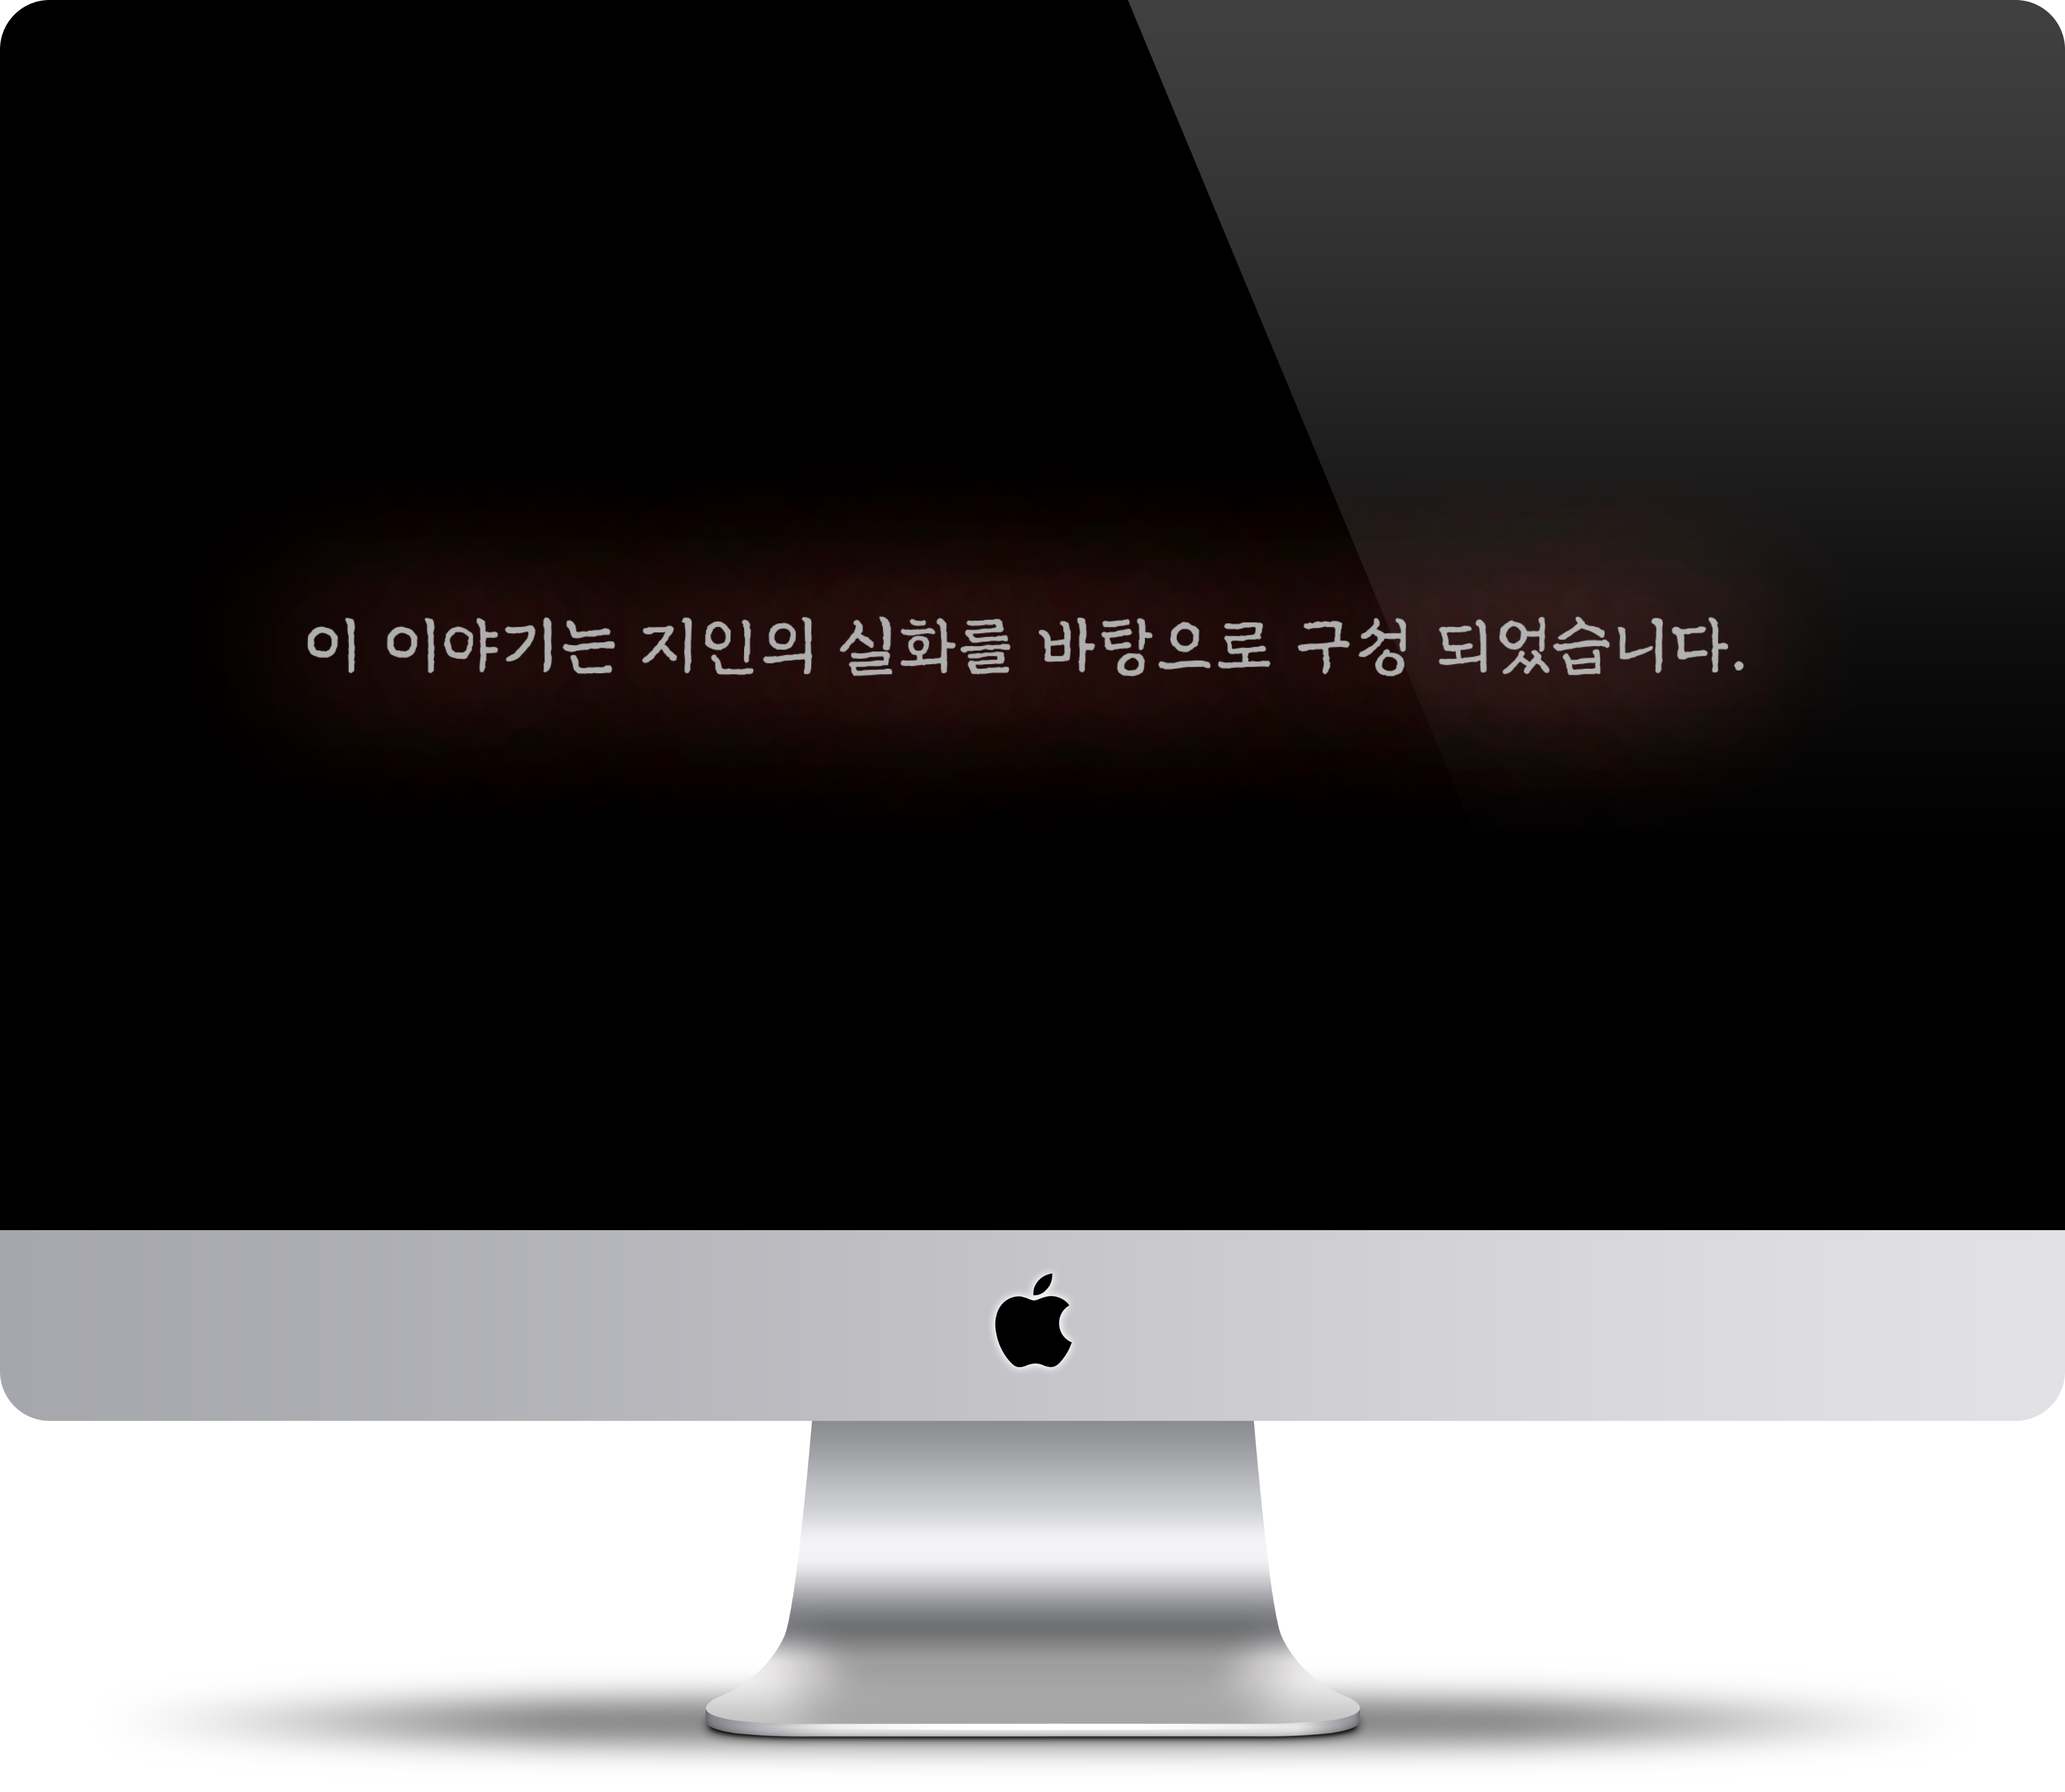
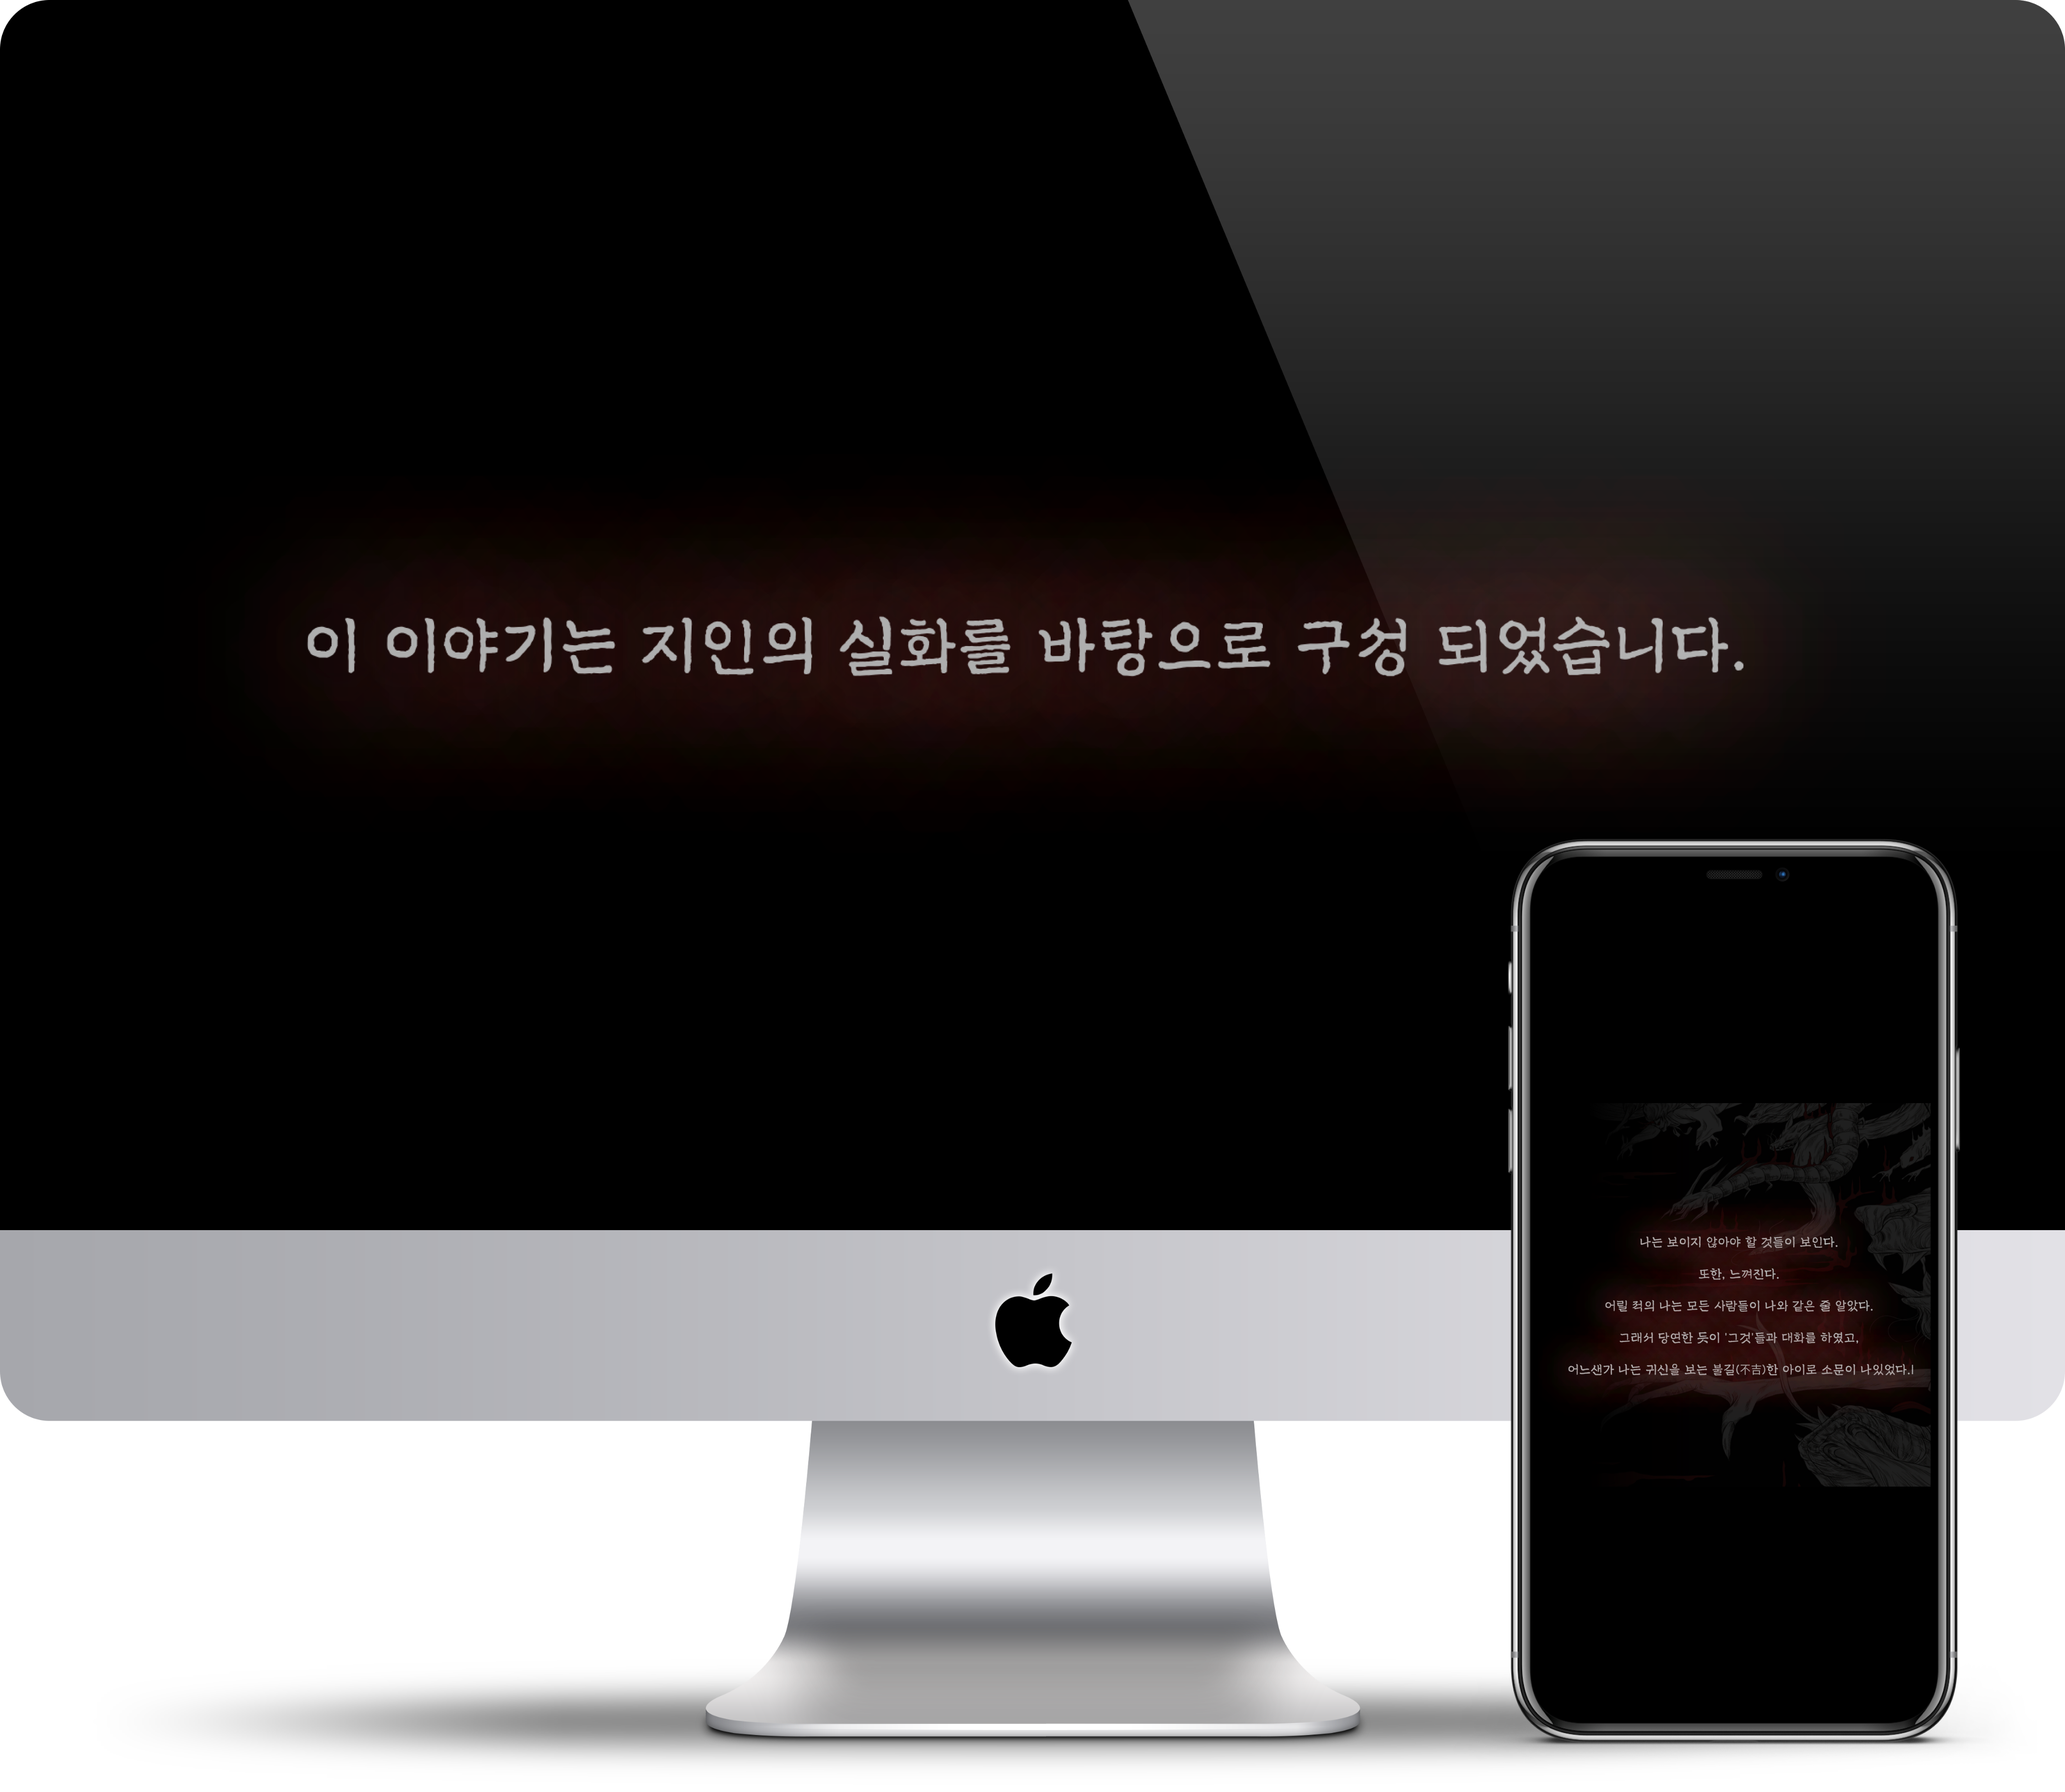
.

Changed region(s): [[0.7188, 0.4682, 0.9688, 0.9989]]

diff --git a/src/component/pages/ThirdSection.tsx b/src/component/pages/ThirdSection.tsx
@@ -1,7 +1,8 @@
 import React, { useState, useEffect } from "react";
 import styled, { css } from "styled-components";
 import { motion, AnimatePresence } from "framer-motion";
-import ImacIMG from "../assets/images/pngwing.com.png";
+// import ImacIMG from "../assets/images/pngwing.com.png";
+import iphoneIMG from "../assets/images/iphone.png";
 import NovelIMGFirst from "../assets/images/novel-img-1.png";
 import RockIMGFirst from "../assets/images/rock.png";
 import "../../App.scss";
@@ -129,12 +130,9 @@ const ThirdBoxSub = styled(motion.section)`
       display: flex;
       justify-content: center;
       align-items: center;
-      transition: border 0.2s ease-in-out;
+      transition:  0.2s ease-in-out;
 
-      &:hover {
-        border: 3px solid #fff;
-        opacity: 1;
-      }
+
       
       @media (max-width: 768px) {
       width: 100%;
@@ -148,12 +146,23 @@ const ThirdBoxSub = styled(motion.section)`
       .Sn-Page {
       width: 100%;
       height: 100%;
-      color: #b2b2b2;
+      color: #000000;
       font-size: 2rem;
-      background-color: #191919;
+      background-color: #ffffff;
       font-family: "ChosunCentennial";
-      transition: 1s ease-in-out ;
       cursor: pointer;
+
+      &:hover {
+        background-color: #000000;
+        text-shadow:
+          0 0 30px #b23d39,
+          0 0 60px #b23d39,
+          0 0 70px #b23d39,
+          0 0 90px #b23d39;
+        opacity: 1;
+        color: #b2b2b2;
+        font-size: 1.5rem;
+      }
 
       @media (max-width: 768px) {
       width: 100%;
@@ -167,14 +176,19 @@ const ThirdBoxSub = styled(motion.section)`
       .Rock-Page {
       width: 100%;
       height: 100%;
-      color: #000000;
+      color: #000;
       font-size: 2rem;
-      background-color: #ffffff;
+      background-color: #fff;
       font-family: Impact, Haettenschweiler, 'Arial Narrow Bold', sans-serif;
-      transition: 1s ease-in-out ;
       letter-spacing: 0.5rem;
       cursor: pointer;
 
+      &:hover {
+        background-color: #000;
+        color: #fff;
+        opacity: 1;
+        font-size: 1.5rem;
+      }
       @media (max-width: 768px) {
       width: 100%;
       height: 10vh;
@@ -288,7 +302,8 @@ const ModalContent = styled(motion.div)`
 
       .Monitor {
       width: 100%;
-      height: 75%;
+      height: 100%;
+      padding: 2rem 2rem ;
 
       @media (max-width: 768px) {
       width: 100%;
@@ -305,7 +320,7 @@ const ModalContent = styled(motion.div)`
       background-size: contain;
       background-position: center top;
       margin: 1rem auto;
-
+      z-index: 0;
 
       @media (max-width: 768px) {
         width: 100%;

diff --git a/src/component/pages/SecondSection.tsx b/src/component/pages/SecondSection.tsx
@@ -49,7 +49,7 @@ const Content = styled.div`
 
 const SecondBoxPicture = styled(motion.div)`
   width: 100%;
-  height: 100vh;
+  height: 60rem;
   flex-direction: column;
   background-image: url(${TechIMG});
   background-size: cover;
@@ -61,7 +61,7 @@ const SecondBoxPicture = styled(motion.div)`
 
   @media (max-width: 768px) {
     width: 100%;
-    height: 100%;
+    height: 120vh;
     background-size: cover;
     background-position: center center;
     margin: 1rem auto;
@@ -392,8 +392,8 @@ const SecondSection = () => {
             <SiJavascript style={{marginRight:'1rem'}}/>
             <SiTypescript style={{marginRight:'1rem'}}/>
             <SiSass style={{marginRight:'1rem'}}/>
-            <SiGithub style={{marginRight:'1rem'}}/>
             <SiReact style={{marginRight:'1rem'}}/>
+            <SiGithub style={{marginRight:'1rem'}}/>
             </ul>
           </SecondBoxSub>
         </SecondBoxText>
